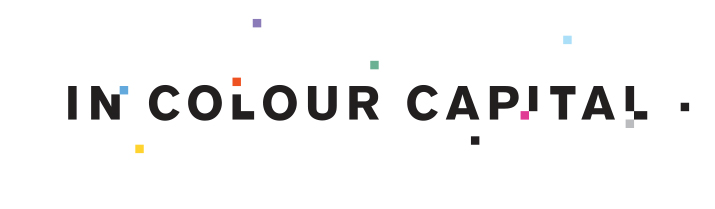
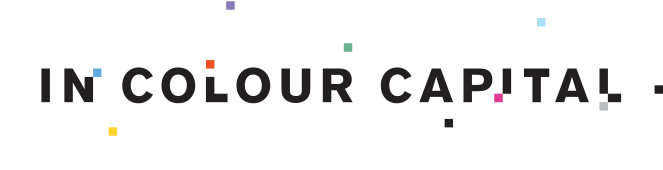
initial styling done

diff --git a/style.css b/style.css
@@ -108,8 +108,6 @@ input[type=checkbox], input[type=radio] {
 
 input[type=search] {
   -webkit-appearance: textfield;
-  -moz-box-sizing: content-box;
-  -webkit-box-sizing: content-box;
   box-sizing: content-box; }
 
 input[type=search]::-webkit-search-cancel-button, input[type=search]::-webkit-search-decoration {
@@ -131,8 +129,6 @@ legend, button::-moz-focus-inner, input::-moz-focus-inner {
   padding: 0; }
 
 * {
-  -moz-box-sizing: border-box;
-  -webkit-box-sizing: border-box;
   box-sizing: border-box; }
 
 .clearfix:after {
@@ -224,6 +220,40 @@ ul.menu {
       padding: 10px;
       background: #333;
       color: white; }
+
+.fade-in {
+  opacity: 1 !important; }
+
+.main-fade-in {
+  -webkit-animation: fadeIn 0.5s both ease-out;
+          animation: fadeIn 0.5s both ease-out; }
+
+.fast-fade-in {
+  -webkit-animation: fadeIn 0.1s both ease-out;
+          animation: fadeIn 0.1s both ease-out; }
+
+@-webkit-keyframes fade-in {
+  0% {
+    opacity: 0; }
+  100% {
+    opacity: 1; } }
+
+@keyframes fade-in {
+  0% {
+    opacity: 0; }
+  100% {
+    opacity: 1; } }
+
+.hide-it {
+  display: none; }
+
+.show-it {
+  display: block !important; }
+
+.scale-it-up {
+  -webkit-transform: scaleY(1) !important;
+      -ms-transform: scaleY(1) !important;
+          transform: scaleY(1) !important; }
 
 .sidebar {
   width: 30%;
@@ -422,6 +452,7 @@ Default Styling
 ====================================
 */
 img {
+  width: 100%;
   max-width: 100%; }
 
 html, body {
@@ -440,6 +471,12 @@ html, body {
 
 p {
   margin: 0; }
+
+h2 {
+  font-size: 3rem;
+  margin-top: 0;
+  margin-bottom: 60px;
+  letter-spacing: 1.5px; }
 
 /*
 ====================================
@@ -470,6 +507,9 @@ Custom Styling
         margin: 0;
         background: none; }
 
+.nav-wrapper ul.menu li:first-child {
+  color: pink; }
+
 section {
   max-width: 100%;
   margin: 0;
@@ -477,33 +517,53 @@ section {
 
 .masthead {
   background: white;
-  height: 475px;
+  height: 400px;
   position: relative; }
   .masthead .animation-holder {
-    width: 715px;
+    width: 45%;
     position: absolute;
     top: 50%;
     left: 50%;
-    transform: translate(-50%, -50%); }
+    -webkit-transform: translate(-50%, -50%);
+        -ms-transform: translate(-50%, -50%);
+            transform: translate(-50%, -50%); }
 
 .intro {
   background: white;
   color: black;
-  font-size: 5rem; }
+  font-size: 3.1rem;
+  font-weight: bold;
+  letter-spacing: 1.5px;
+  padding-bottom: 80px; }
 
 .aboutUs {
-  background: black; }
+  background: black;
+  padding-top: 125px;
+  padding-bottom: 150px; }
+  .aboutUs h2 {
+    font-size: 3rem;
+    margin-bottom: 0; }
   .aboutUs p {
     font-size: 1.4rem;
+    line-height: 2;
     font-weight: normal;
-    margin-bottom: 5px; }
+    padding-bottom: 30px; }
 
 .portfolio {
   background: white;
-  color: black; }
+  color: black;
+  padding-top: 60px; }
+  .portfolio h2 {
+    font-size: 3rem;
+    margin-top: 0;
+    margin-bottom: 60px; }
 
 .wrapper {
   max-width: 1175px;
+  margin: 0 auto; }
+
+.centre_wrapper {
+  width: 51%;
   margin: 0 auto; }
 
 .client_container {
@@ -512,15 +572,28 @@ section {
   border: 1px solid rgba(0, 0, 0, 0.4);
   background-repeat: no-repeat;
   background-size: cover;
+  overflow: hidden;
   position: relative; }
   .client_container .client_writeup {
+    -webkit-transition: all 0.25s linear;
+            transition: all 0.25s linear;
     position: absolute;
     top: 3.5%;
     left: 3.5%;
-    width: 50%;
-    padding: 50px 15px 15px 15px;
+    -webkit-transform-origin: 0% 0%;
+        -ms-transform-origin: 0% 0%;
+            transform-origin: 0% 0%;
+    -webkit-transform: scaleY(0);
+        -ms-transform: scaleY(0);
+            transform: scaleY(0);
+    width: 45%;
+    padding: 50px 20px 20px 20px;
     background: black;
     color: white; }
+    .client_container .client_writeup .write_up {
+      -webkit-transition: all 0.25s linear;
+              transition: all 0.25s linear;
+      opacity: 0; }
 
 .client_container:before {
   content: "";
@@ -532,26 +605,51 @@ section {
   width: 100%; }
   .all_rows .client_container {
     width: 47.5%; }
-  .all_rows :nth-child(2n) {
-    margin-left: 5%;
-    margin-bottom: 5%; }
+    .all_rows .client_container h3 {
+      font-size: 1.8rem;
+      text-transform: uppercase;
+      letter-spacing: 1.5px; }
+    .all_rows .client_container p {
+      font-size: 1.5rem; }
 
-.left_blank .client_container, .right_blank .client_container, .center_blank .client_container, .full_row .client_container {
-  margin-bottom: 3%; }
+.client_container:nth-child(2n) {
+  margin-left: 5%;
+  margin-bottom: 5%; }
 
-.left_blank :nth-child(n+2), .right_blank :nth-child(n+2), .center_blank :nth-child(n+2), .full_row :nth-child(n+2) {
+.left_blank, .right_blank, .center_blank, .full_row {
+  width: 100%; }
+  .left_blank .client_container, .right_blank .client_container, .center_blank .client_container, .full_row .client_container {
+    margin-bottom: 3%; }
+    .left_blank .client_container .client_writeup, .right_blank .client_container .client_writeup, .center_blank .client_container .client_writeup, .full_row .client_container .client_writeup {
+      width: 55%; }
+    .left_blank .client_container h3, .right_blank .client_container h3, .center_blank .client_container h3, .full_row .client_container h3 {
+      font-size: 1.35rem;
+      text-transform: uppercase;
+      letter-spacing: 1.5px; }
+    .left_blank .client_container p, .right_blank .client_container p, .center_blank .client_container p, .full_row .client_container p {
+      font-size: 1.1rem; }
+
+.right_blank .client_container:nth-child(2) {
+  margin-left: 3%;
+  margin-right: 34.333%; }
+
+.left_blank .client_container:nth-child(1) {
+  margin-left: 34.333%; }
+
+.left_blank .client_container:nth-child(2) {
   margin-left: 3%; }
 
-.left_blank :nth-child(1) {
-  margin-left: 34.333%; }
+.center_blank .client_container:nth-child(2) {
+  margin-left: 37.333%; }
 
-.center_blank :nth-child(2) {
-  margin-left: 34.333%; }
+.full_row .client_container:nth-child(n+2) {
+  margin-left: 3%; }
 
 footer {
   background: black;
   margin: 0;
-  padding: 0; }
+  padding: 0;
+  padding-top: 75px; }
   footer .credentials {
     width: 96%;
     height: 96%;
@@ -564,6 +662,7 @@ footer {
         text-transform: uppercase;
         font-size: 1.2rem;
         font-weight: bold;
+        letter-spacing: 1.5px;
         margin: 0;
         margin-bottom: 5px; }
       footer .credentials .creds p {
@@ -575,6 +674,7 @@ footer {
     height: 4%;
     max-width: 45px;
     max-height: 45px;
+    margin-top: 95px;
     float: left; }
   footer .copyright {
     font-size: 1.1rem;

diff --git a/js/scripts.js b/js/scripts.js
@@ -1,3 +1,20 @@
 $(function(){
-	//your jQuery here
+
+var app = {};
+
+
+$('.client_container').mouseover(function(){
+	clearInterval(app.timeOut);
+	//
+	app.openUp = $(this).find('.client_writeup');
+	app.showOn = app.openUp.find('.write_up');
+	//
+	app.openUp.addClass('scale-it-up');
+	//
+	app.timeIn = setTimeout(function(){
+		app.showOn.addClass('fade-in');
+  		// $(that).addClass('scaled');
+	},500);
+	//
+	});
 });

diff --git a/gulpfile.js b/gulpfile.js
@@ -7,10 +7,8 @@ gulp.task('default', ['styles', 'watch']);
 
 gulp.task('styles', function() {
 	return gulp.src('sass/**/*.scss')
-		.pipe(sass({
-			'sourcemap=none': true,
-			errLogToConsole: true
-		}))
+		.pipe(sass().on('error', sass.logError))
+		.pipe(autoprefixer('last 2 version', 'safari 5', 'ie 6-8', 'opera 12.1', 'Firefox > 20', 'iOS 7'))
 		.pipe(concat('style.css'))
 		.pipe(gulp.dest('.'));
 });

diff --git a/front-page.php b/front-page.php
@@ -12,26 +12,26 @@
                 <div class="wrapper">
 
                     <div class="animation-holder">
-                    	<img src="<?php bloginfo( 'template_directory' ); ?>/img/video-placeholder.jpg" width="715" height="209" alt="In Colour Capital">
+                    	<img src="<?php bloginfo( 'template_directory' ); ?>/img/video-placeholder.jpg" alt="In Colour Capital">
+
                     </div>
 
                 </div>
             </section><!-- End of Masthead section -->
 
             <section class="intro">
-                <div class="intro">
                     <?php $latestPosts = new wp_query(array(
                       'post_type' => 'intro',//we only want about pieces
                       'posts_per_page' => 1
                     )) ?> 
                     <div class="wrapper">
                         <?php if($latestPosts->have_posts()) while($latestPosts->have_posts()) : $latestPosts->the_post() ?>
-
-                            <p><?php the_content(); ?></p>
+                            <div class="centre_wrapper">
+                              <?php the_content(); ?>
+                            </div>
 
                         <?php endwhile; // end of the loop. ?>
                     </div>
-                </div>
             </section>
 
             <section class="aboutUs">
@@ -43,8 +43,10 @@
 
                     <?php if($latestPosts->have_posts()) while($latestPosts->have_posts()) : $latestPosts->the_post() ?>
 
-                        <p><?php the_title(); ?></p>
-                        <p><?php the_content(); ?></p>
+                        <h2><?php the_title(); ?></h2>
+                        <div class="centre_wrapper">
+                          <?php the_content(); ?>
+                        </div>
 
                     <?php endwhile; // end of the loop. ?>
                 </div>
@@ -112,8 +114,10 @@
                                           //pre_r($row_data);
                                           echo '<div class="client_container" style="background-image: url('.$get_posts_data['image']['sizes']['large'].')">';
                                           echo '<div class="client_writeup">';
-                                          echo '<h2>'.$get_posts_data['title'].'</h2>';
+                                          echo '<div class="write_up">';
+                                          echo '<h3>'.$get_posts_data['title'].'</h3>';
                                           echo '<p>'.$get_posts_data['description'].'</p>';
+                                          echo '</div>';
                                           echo '</div>';
                                           echo '</div>';
                                       }

diff --git a/functions.php b/functions.php
@@ -278,8 +278,10 @@ function define_rows($find_the_row, $name_the_row){
 		    //
 		    echo '<div class="client_container" style="background-image: url('.$get_posts_data['image']['sizes']['large'].')">';
 		    echo '<div class="client_writeup">';
-		    echo '<h2>'.$get_posts_data['title'].'</h2>';
+		    echo '<div class="write_up">';
+		    echo '<h3>'.$get_posts_data['title'].'</h3>';
 		    echo '<p>'.$get_posts_data['description'].'</p>';
+		    echo '</div>';
 		    echo '</div>';
 		    echo '</div>';
 		}

diff --git a/footer.php b/footer.php
@@ -1,7 +1,7 @@
 <footer>
   <div class="wrapper clearfix">
-	<h2>Contact</h2>
   	<div class="credentials clearfix">
+	<h2>Contact</h2>
 
   		<?php $latestPosts = new wp_query(array(
   		  'post_type' => 'credential',//we only want about pieces
